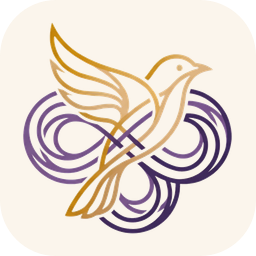
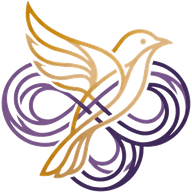
Transparent Weavr mark recoloured for the dark theme
- weavr-mark-dark: same artwork, transparent, with the dark-purple loops
  lifted to lavender and orchid and the gold bird brightened so the whole
  mark reads on deep purple. Used in the sidebar, phone header and Home,
  with no tile behind it, just a soft gold glow.
- Browser-tab icon is now transparent (original colours) and compressed;
  the Apple touch icon keeps its light tile (iOS needs a solid icon).

diff --git a/src/components/app/AppShell.tsx b/src/components/app/AppShell.tsx
@@ -20,17 +20,14 @@ const NAV = [
 const isActive = (pathname: string, href: string) => (href === "/" ? pathname === "/" : pathname.startsWith(href));
 
 /**
- * The Weavr mark (bird and woven loops) on a light tile. The tile keeps the
- * logo's dark-purple strands visible against the app's dark background.
+ * The Weavr mark (bird and woven loops) on a transparent background. Uses the
+ * dark-background variant: the same artwork with the loops lifted to lavender
+ * and orchid and the bird brightened, so it reads on deep purple.
  */
 export function LogoMark({ size = 40 }: { size?: number }) {
   return (
-    <span
-      className="logo-mark flex flex-shrink-0 items-center justify-center rounded-xl bg-[#fbf5ec]"
-      style={{ width: size, height: size, padding: size * 0.09 }}
-      aria-hidden
-    >
-      <Image src="/brand/weavr-mark.webp" alt="" width={size} height={size} className="h-full w-full object-contain" priority />
+    <span className="logo-mark flex flex-shrink-0 items-center justify-center" style={{ width: size, height: size }} aria-hidden>
+      <Image src="/brand/weavr-mark-dark.webp" alt="" width={size} height={size} className="h-full w-full object-contain" priority />
     </span>
   );
 }

diff --git a/src/app/globals.css b/src/app/globals.css
@@ -773,7 +773,7 @@ html.cursor-visible .cursor-glow {
 
 /* ---- logo + nav ---- */
 .logo-mark {
-  box-shadow: 0 0 22px -6px rgba(200, 139, 0, 0.7), inset 0 0 0 1px rgba(200, 139, 0, 0.35);
+  filter: drop-shadow(0 0 10px rgba(200, 139, 0, 0.35));
 }
 .nav-link {
   transition: background-color 200ms ease, color 200ms ease;
